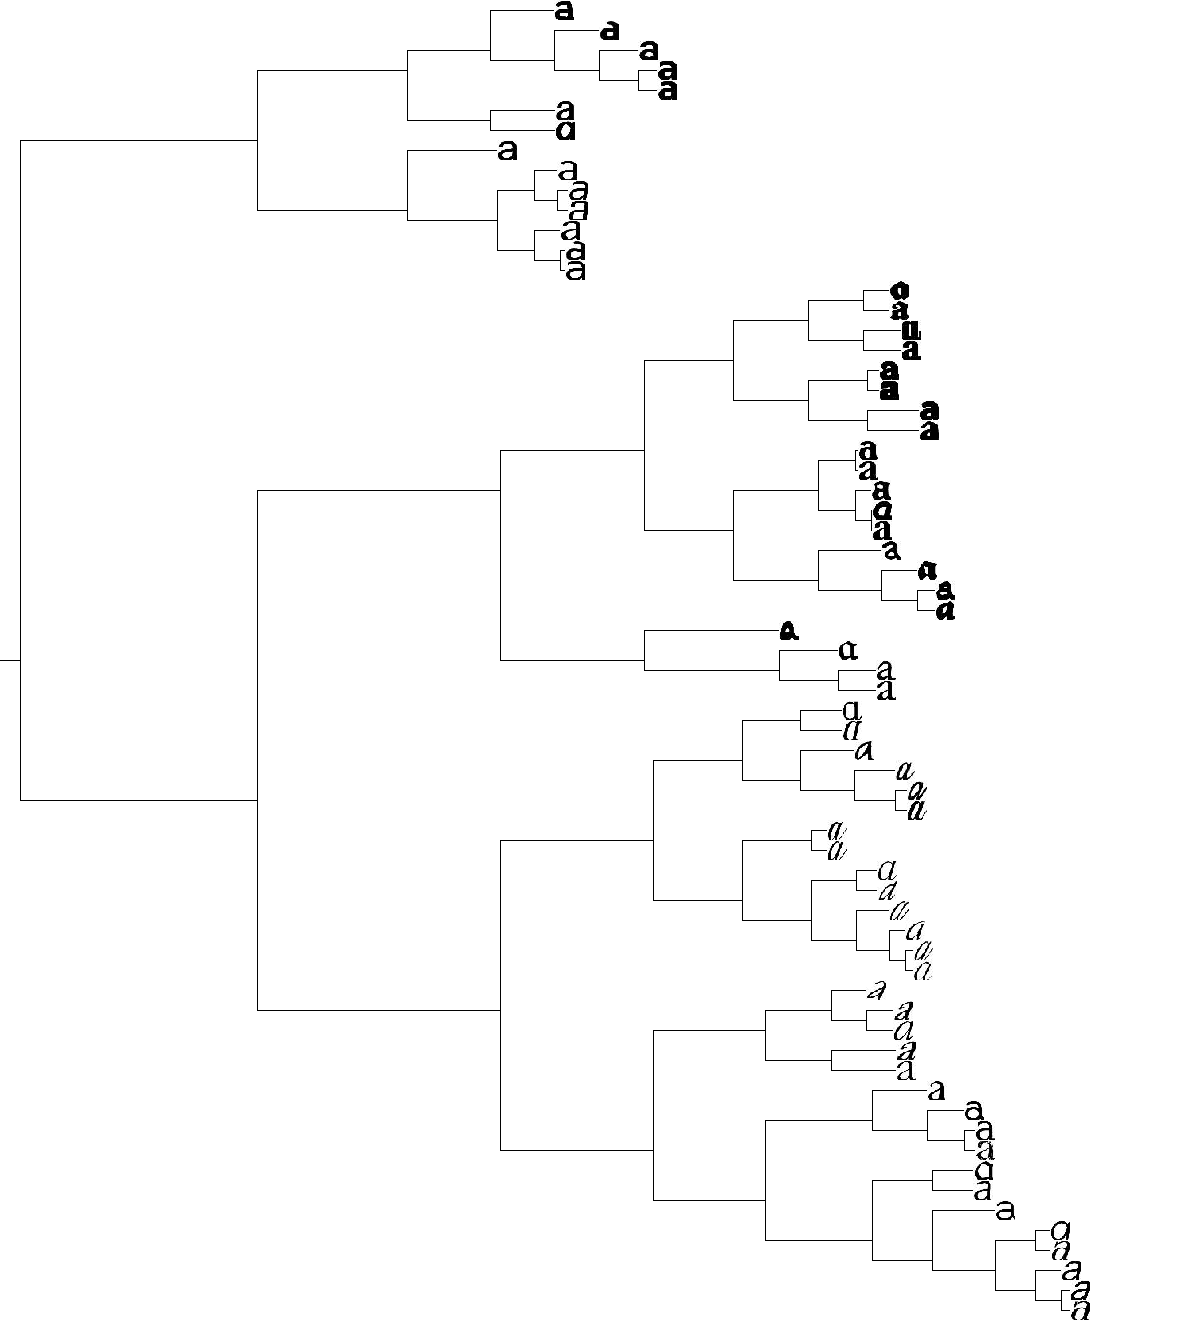
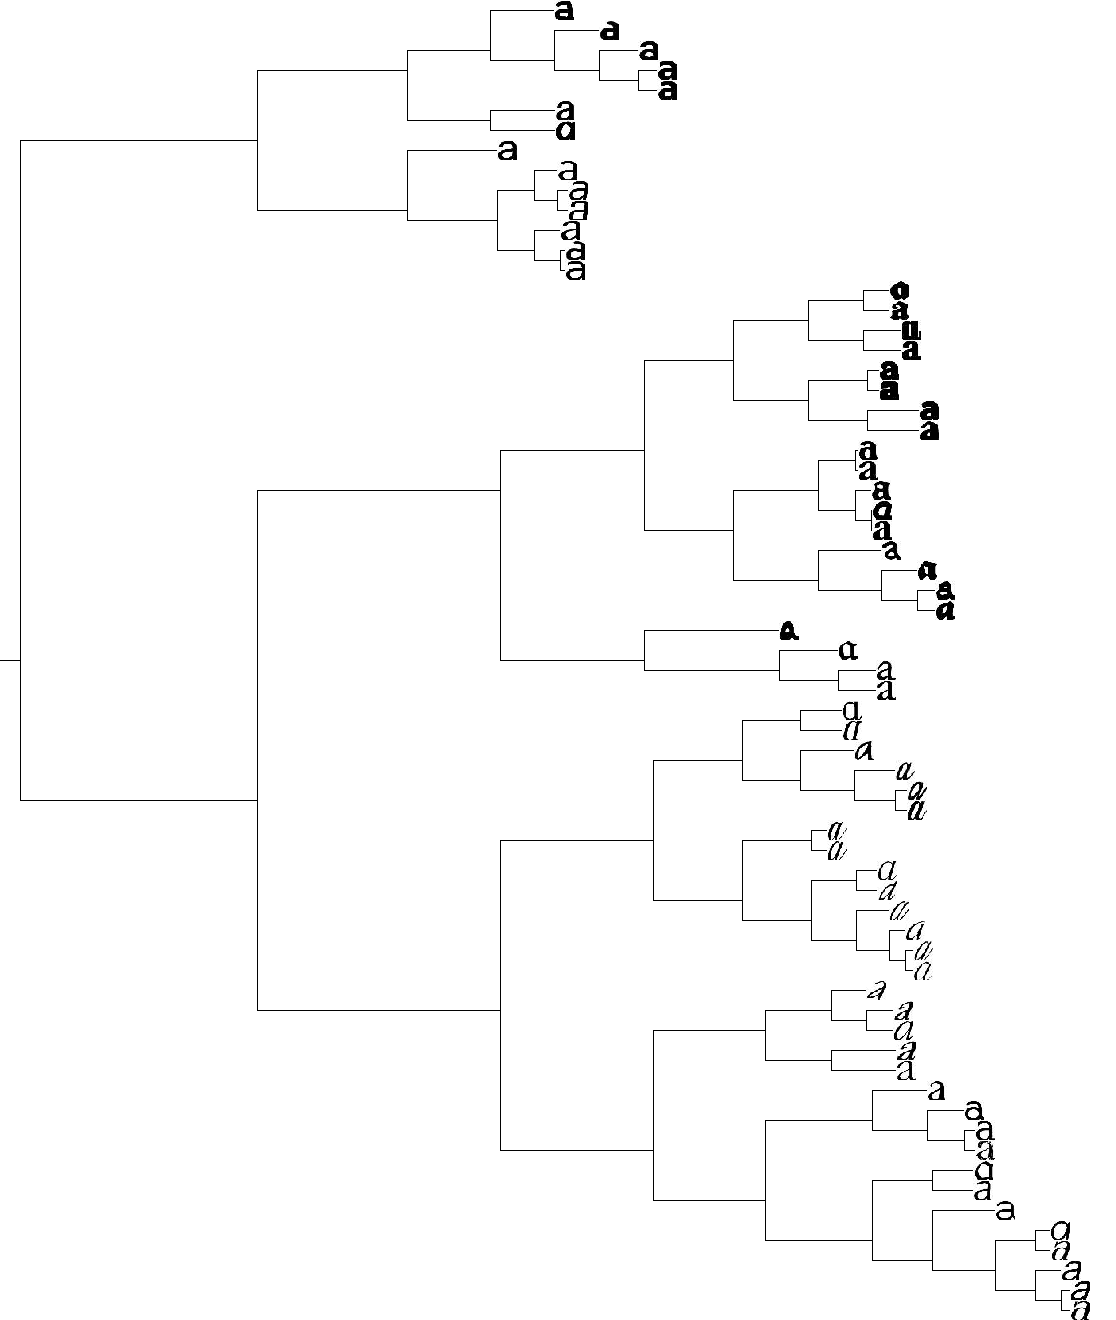
add new content in ch06

diff --git a/chapter6.md b/chapter6.md
@@ -3,6 +3,8 @@ layout: chapter
 title: 第六章 图像聚类
 ---
 
+这一章会介绍几种聚类方法，并就怎么使用它们对图像进行聚类找出相似的图像组进行说明。聚类可以用于识别，划分图像数据集、组织导航等。同时，我们也会用聚类相似的图像进行可视化。
+
 <h2 id="sec-6-1">6.1 K-Means聚类</h2>
 
 K-means是一种非常简单的聚类算法，它能够将输入数据划分成k个簇。关于K-means聚类算法的介绍可以参阅中译本。
@@ -45,7 +47,77 @@ show()
 上面代码中where()函数给出每类的索引。运行上面代码，可得到原书P129页图6-1，即：
 ![ch06_fig61_kmeans-2D](assets/images/figures/ch06/ch06_fig61_kmeans-2D.png)
 
-<h3 id="sec-6-1-2">6.1.3 图像聚类</h3>
+<h3 id="sec-6-1-2">6.1.2 图像聚类</h3>
+
+现在我们用k-means对原书14页的图像进行聚类，文件selectedfontimages.zip包含了66张字体图像。对于每一张图像，我们用在前40个主成分上投影后的系数作为特征向量。下面为对其进行聚类的代码：
+
+```python
+ # -*- coding: utf-8 -*-
+from PCV.tools import imtools
+import pickle
+from scipy import *
+from pylab import *
+from PIL import Image
+from scipy.cluster.vq import *
+from PCV.tools import pca
+
+# Uses sparse pca codepath.
+imlist = imtools.get_imlist('../data/selectedfontimages/a_selected_thumbs/')
+
+# 获取图像列表和他们的尺寸
+im = array(Image.open(imlist[0]))  # open one image to get the size
+m, n = im.shape[:2]  # get the size of the images
+imnbr = len(imlist)  # get the number of images
+print "The number of images is %d" % imnbr
+
+# Create matrix to store all flattened images
+immatrix = array([array(Image.open(imname)).flatten() for imname in imlist], 'f')
+
+# PCA降维
+V, S, immean = pca.pca(immatrix)
+
+# 保存均值和主成分
+#f = open('./a_pca_modes.pkl', 'wb')
+f = open('./a_pca_modes.pkl', 'wb')
+pickle.dump(immean,f)
+pickle.dump(V,f)
+f.close()
+
+
+# get list of images
+imlist = imtools.get_imlist('../data/selectedfontimages/a_selected_thumbs/')
+imnbr = len(imlist)
+
+# load model file
+with open('../data/selectedfontimages/a_pca_modes.pkl','rb') as f:
+    immean = pickle.load(f)
+    V = pickle.load(f)
+# create matrix to store all flattened images
+immatrix = array([array(Image.open(im)).flatten() for im in imlist],'f')
+
+# project on the 40 first PCs
+immean = immean.flatten()
+projected = array([dot(V[:40],immatrix[i]-immean) for i in range(imnbr)])
+
+# k-means
+projected = whiten(projected)
+centroids,distortion = kmeans(projected,4)
+code,distance = vq(projected,centroids)
+
+# plot clusters
+for k in range(4):
+    ind = where(code==k)[0]
+    figure()
+    gray()
+    for i in range(minimum(len(ind),40)):
+        subplot(4,10,i+1)
+        imshow(immatrix[ind[i]].reshape((25,25)))
+        axis('off')
+show()
+```
+运行上面代码，可得到下面的聚类结果：
+![2014-04-06 12_47_22-Programming.Computer.Vision.with.Python1.pdf - Adobe Acrobat Pro](assets/images/figures/ch06/2014-04-06 12_47_22-Programming.Computer.Vision.with.Python1.pdf - Adobe Acrobat Pro.png)
+注：这里的结果译者截的是原书上的结果，上面代码实际运行出来的结果可能跟上面有出入。
 
 <h3 id="sec-6-1-3">6.1.3 在主成分上可视化图像</h3>
 
@@ -272,7 +344,7 @@ hcluster.draw_dendrogram(tree,imlist,filename='sunset.pdf')
 ![ch06_P140-Fig6.6_02](assets/images/figures/ch06/ch06_P140-Fig6.6_02.png)
 ![ch06_P140-Fig6.6_01](assets/images/figures/ch06/ch06_P140-Fig6.6_01.png)
 同时会在上面脚本文件所在的文件夹下生成层次聚类后的簇群树：
-![sunset](assets/images/figures/ch06/sunset.png)
+![sunset_meitu](assets/images/figures/ch06/sunset_meitu.png)
 我们对前面字体图像同样创建一个树，正如前面在主成分可视化图像中，我们添加了下面代码：
 
 ```
@@ -280,7 +352,7 @@ tree = hcluster.hcluster(projected)
 hcluster.draw_dendrogram(tree,imlist,filename='fonts.png')
 ```
 运行添加上面两行代码后前面的例子，可得对字体进行层次聚类后的簇群树：
-![fonts](assets/images/figures/ch06/fonts.png)
+![fonts_meitu](assets/images/figures/ch06/fonts_meitu.png)
 
 <h2 id="sec-6-3">6.3 谱聚类</h2>
 
@@ -337,11 +409,7 @@ for c in range(k):
 show()
 ```
 上面我们在前个特征向量上计算标准的k-means。下面是运行上面代码的结果：
-![ch06_fig6-8_01](assets/images/figures/ch06/ch06_fig6-8_01.png)
-![ch06_fig6-8_02](assets/images/figures/ch06/ch06_fig6-8_02.png)
-![ch06_fig6-8_03](assets/images/figures/ch06/ch06_fig6-8_03.png)
-![ch06_fig6-8_04](assets/images/figures/ch06/ch06_fig6-8_04.png)
-![ch06_fig6-8_05](assets/images/figures/ch06/ch06_fig6-8_05.png)
+![ch06_fig6-8](assets/images/figures/ch06/ch06_fig6-8.png)
 注意，由于在k-means阶段会给出不同的聚类结果，所以你运行上面代码出来的结果可能跟译者的是不一样的。
 
 
